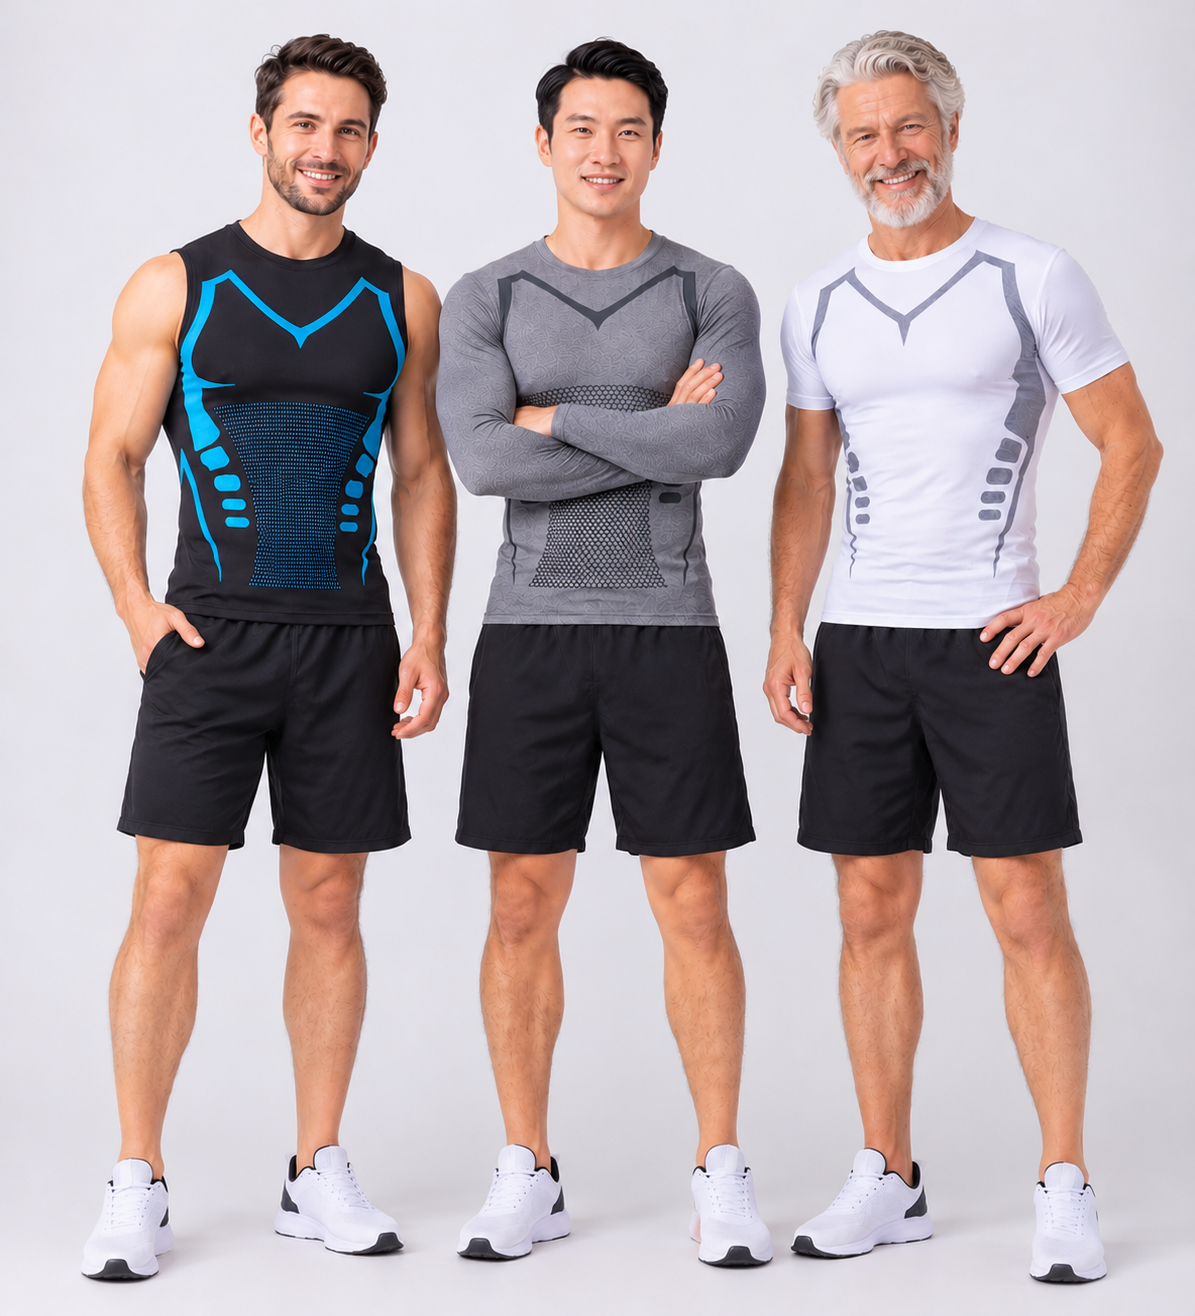
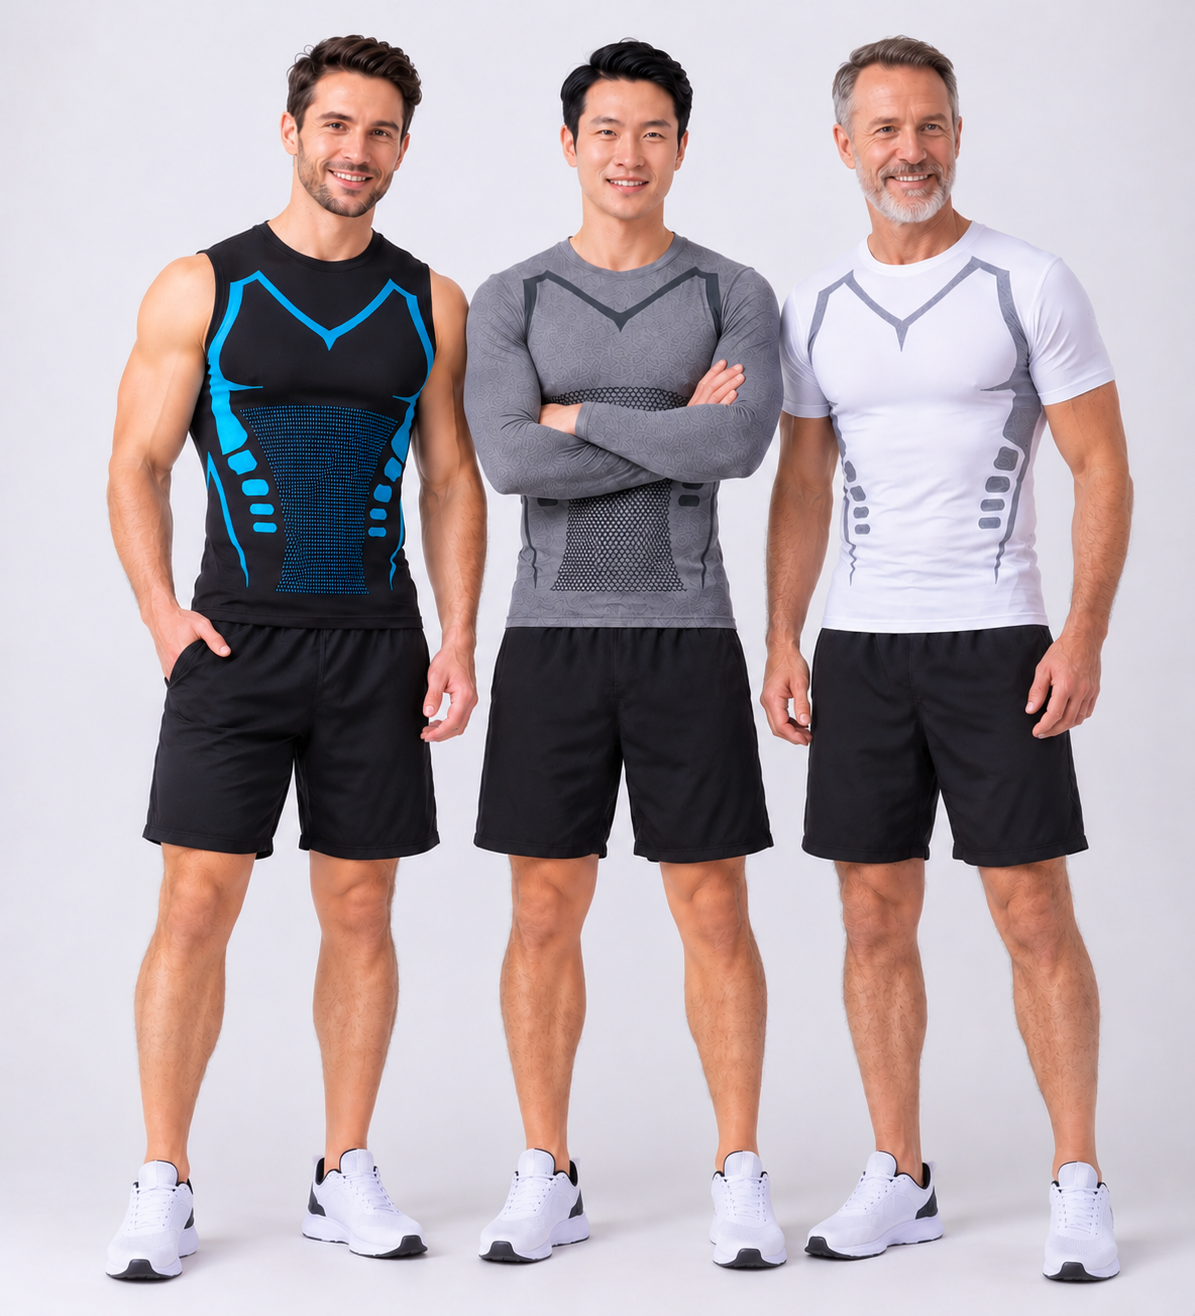
feat: ajouter les vues avant et arriere du pack decouverte avec effet hover sur la page d'accueil

Changed region(s): [[0.0619, 0.0, 0.9908, 0.997]]

diff --git a/src/pages/PackDecouverteLanding.jsx b/src/pages/PackDecouverteLanding.jsx
@@ -167,11 +167,19 @@ export default function PackDecouverteLanding() {
               <span className="pdl-hero__card-save">
                 {lang === 'fr' ? '-47% DE RÉDUCTION' : '-47% SAVINGS'}
               </span>
-              <img
-                src="/images/products/image-decouverte.png"
-                alt="Pack Découverte 3 Coupes"
-                className="pdl-hero__card-img"
-              />
+              <div className="pdl-hero__img-wrap">
+                <img
+                  src="/images/products/image-decouverte.png"
+                  alt={lang === 'fr' ? 'Pack Découverte — Vue avant' : 'Discovery Pack — Front view'}
+                  className="pdl-hero__card-img pdl-hero__card-img--main"
+                />
+                <img
+                  src="/images/products/decouverte-back.png"
+                  alt={lang === 'fr' ? 'Pack Découverte — Vue arrière' : 'Discovery Pack — Back view'}
+                  className="pdl-hero__card-img pdl-hero__card-img--alt"
+                  aria-hidden="true"
+                />
+              </div>
               <div className="pdl-hero__card-info">
                 <div>
                   <div className="pdl-hero__card-name">

diff --git a/src/data/catalog.js b/src/data/catalog.js
@@ -201,18 +201,21 @@ export const products = [
     colorImages: {
       Noir: [
         '/images/products/image-decouverte.png',
+        '/images/products/decouverte-back.png',
         '/images/products/sans-manches/1.jpeg',
         '/images/products/demi-manches/4.jpg',
         '/images/products/manches-longues/1.jpg',
       ],
       Blanc: [
         '/images/products/image-decouverte.png',
+        '/images/products/decouverte-back.png',
         '/images/products/sans-manches/4.jpeg',
         '/images/products/demi-manches/1.jpg',
         '/images/products/manches-longues/7.jpg',
       ],
       Gris: [
         '/images/products/image-decouverte.png',
+        '/images/products/decouverte-back.png',
         '/images/products/sans-manches/10.jpeg',
         '/images/products/demi-manches/7.jpg',
         '/images/products/manches-longues/4.jpg',
@@ -220,6 +223,7 @@ export const products = [
     },
     images: [
       '/images/products/image-decouverte.png',
+      '/images/products/decouverte-back.png',
       '/images/products/sans-manches/1.jpeg',
       '/images/products/demi-manches/4.jpg',
       '/images/products/manches-longues/1.jpg',

diff --git a/src/pages/PackDecouverteLanding.css b/src/pages/PackDecouverteLanding.css
@@ -161,12 +161,41 @@
   box-shadow: 0 4px 12px rgba(194, 45, 45, 0.3);
 }
 
-.pdl-hero__card-img {
+.pdl-hero__img-wrap {
+  position: relative;
   width: 100%;
   height: 380px;
-  object-fit: cover;
   border-radius: 12px;
+  overflow: hidden;
   margin-bottom: 16px;
+  background: #f0eee9;
+}
+
+.pdl-hero__card-img {
+  width: 100%;
+  height: 100%;
+  object-fit: cover;
+  display: block;
+  transition: transform 0.5s ease, opacity 0.35s ease;
+}
+
+.pdl-hero__card-img--alt {
+  position: absolute;
+  inset: 0;
+  opacity: 0;
+  pointer-events: none;
+}
+
+.pdl-hero__card:hover .pdl-hero__card-img--main {
+  opacity: 0;
+}
+
+.pdl-hero__card:hover .pdl-hero__card-img--alt {
+  opacity: 1;
+}
+
+.pdl-hero__card:hover .pdl-hero__card-img {
+  transform: scale(1.03);
 }
 
 .pdl-hero__card-info {

diff --git a/src/pages/HomePage.jsx b/src/pages/HomePage.jsx
@@ -132,17 +132,17 @@ const bestSellersBase = [
       Noir: {
         hex: '#1a1a1a',
         img: '/images/products/image-decouverte.png',
-        hoverImg: '/images/products/image-decouverte.png',
+        hoverImg: '/images/products/decouverte-back.png',
       },
       Blanc: {
         hex: '#f4f4f6',
         img: '/images/products/image-decouverte.png',
-        hoverImg: '/images/products/image-decouverte.png',
+        hoverImg: '/images/products/decouverte-back.png',
       },
       Gris: {
         hex: '#72757d',
         img: '/images/products/image-decouverte.png',
-        hoverImg: '/images/products/image-decouverte.png',
+        hoverImg: '/images/products/decouverte-back.png',
       },
     },
   },
